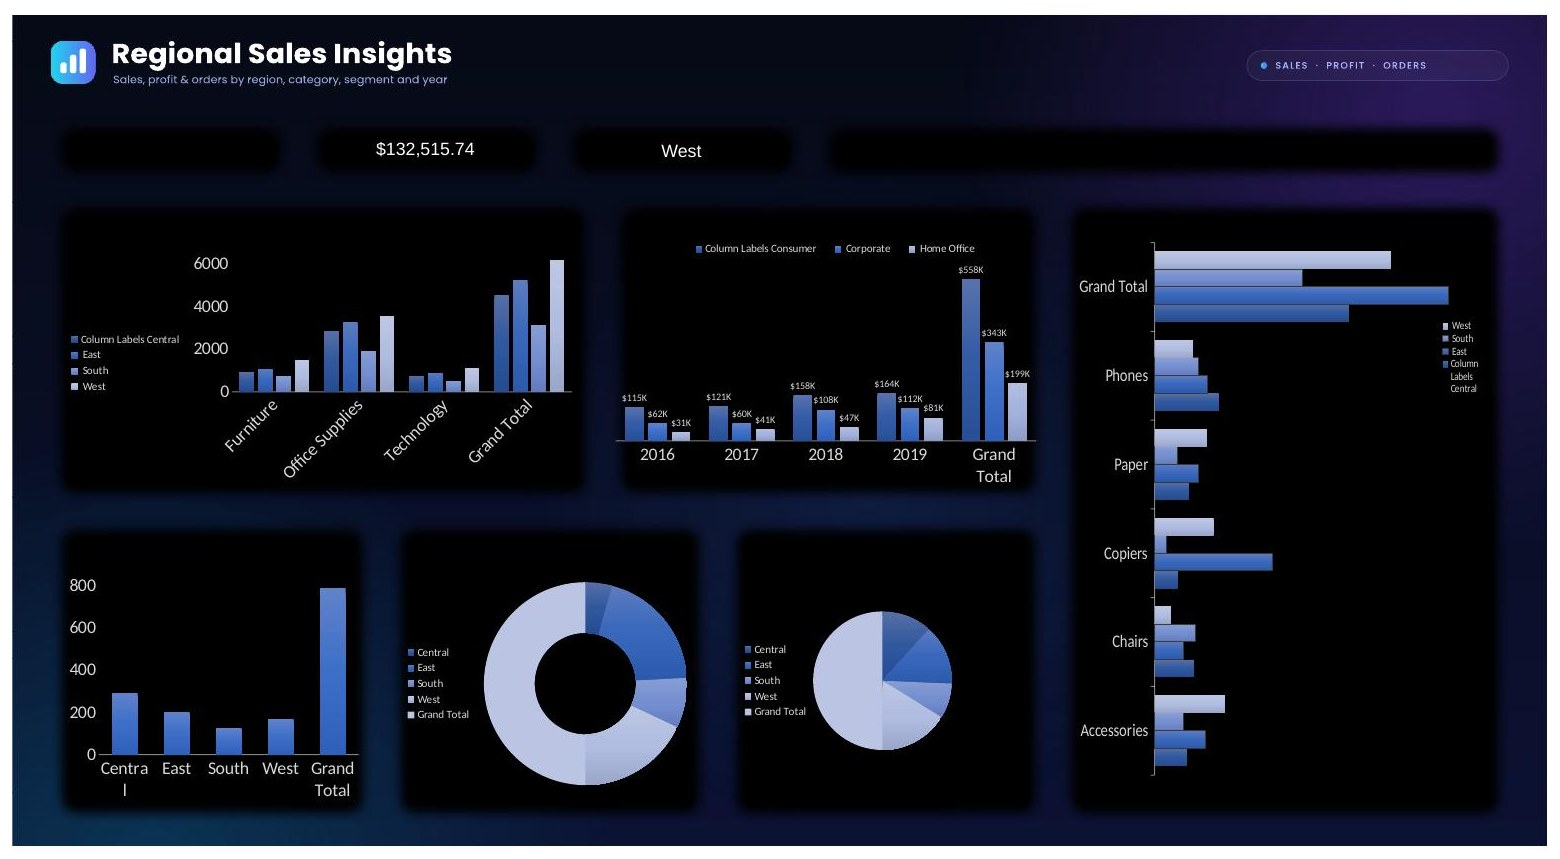
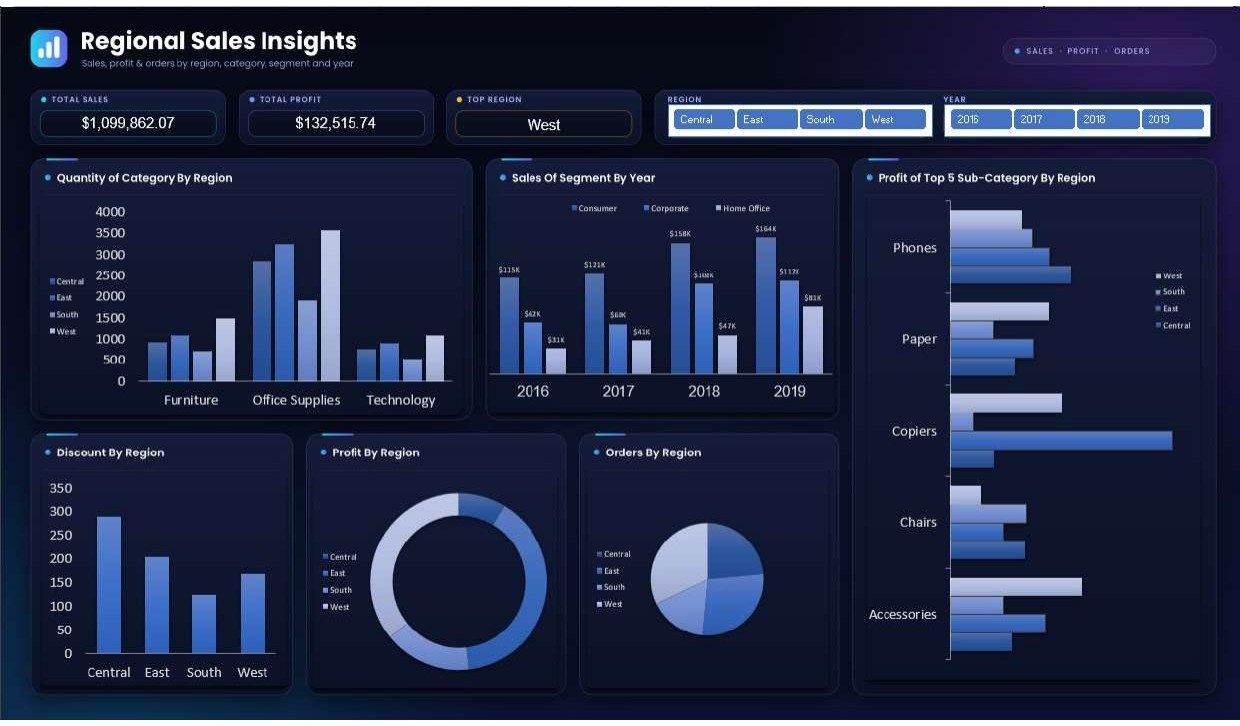
Add files via upload

diff --git a/index.html b/index.html
@@ -140,6 +140,7 @@ html.cc,html.cc *{cursor:none!important}
 .cur-ring.hov{width:60px;height:60px;background:rgba(95,240,196,.12);border-color:var(--a)}
 .cur-dot{width:6px;height:6px;background:var(--a)}
 .dlr{margin-top:24px}
+.gal{display:grid;grid-template-columns:1fr 1fr;gap:12px;margin-top:24px}.gal img{width:100%;display:block;border-radius:12px;border:1px solid var(--line)}@media(max-width:520px){.gal{grid-template-columns:1fr}}
 </style>
 </head>
 <body>
@@ -272,7 +273,8 @@ document.querySelectorAll('.filters button').forEach(b=>b.onclick=()=>{
  const f=b.dataset.f;document.querySelectorAll('.proj').forEach(c=>c.style.display=(f==='all'||c.dataset.k===f)?'':'none');
 });
 const modal=$('#modal');
-function openP(i){const p=P[i],slug=IMG[i].replace('.jpg',''),files=[`assets/pdf/${slug}.pdf`];if(p.k==='xl')files.push(`assets/projects/${IMG[i]}`);$('#mc').innerHTML=`<span class="eyebrow">${LBL[p.k]}</span><h2 style="font-size:1.8rem">${p.t}</h2><p class="lead">${p.s}</p><div class="mm">${p.m.map(y=>`<div><b>${y[0]}</b><small>${y[1]}</small></div>`).join('')}</div><ul>${p.pts.map(y=>`<li>${y}</li>`).join('')}</ul><div class="dlr"><button class="btn p" id="dlb">${p.k==='xl'?'Download PDF + dashboard image':'Download PDF report'} ↓</button></div>`;$('#dlb').onclick=()=>files.forEach((f,j)=>setTimeout(()=>{const a=document.createElement('a');a.href=f;a.download=f.split('/').pop();document.body.append(a);a.click();a.remove()},j*800));modal.classList.add('open');$('#mx').focus();}
+const GAL={"adidas": 1, "global-macro": 7, "kickstarter": 4, "superstore": 5, "mini-project": 1, "sales-analytics": 1, "sales-dashboard": 1};
+function openP(i){const p=P[i],slug=IMG[i].replace('.jpg',''),files=[`assets/pdf/${slug}.pdf`];if(p.k==='xl')files.push(`assets/projects/${IMG[i]}`);const pages=Array.from({length:GAL[slug]||1},(_,k)=>`assets/projects/${slug}-p${k+1}.jpg`);$('#mc').innerHTML=`<span class="eyebrow">${LBL[p.k]}</span><h2 style="font-size:1.8rem">${p.t}</h2><p class="lead">${p.s}</p><div class="mm">${p.m.map(y=>`<div><b>${y[0]}</b><small>${y[1]}</small></div>`).join('')}</div><ul>${p.pts.map(y=>`<li>${y}</li>`).join('')}</ul><div class="dlr"><button class="btn p" id="dlb">${p.k==='xl'?'Download PDF + dashboard image':'Download PDF report'} ↓</button></div><div class="gal">${pages.map((f,k)=>`<a href="${f}" target="_blank" rel="noopener"><img src="${f}" alt="${p.t} dashboard page ${k+1}" loading="lazy" onerror="this.parentNode.remove()"></a>`).join('')}</div>`;$('#dlb').onclick=()=>files.forEach((f,j)=>setTimeout(()=>{const a=document.createElement('a');a.href=f;a.download=f.split('/').pop();document.body.append(a);a.click();a.remove()},j*800));modal.classList.add('open');$('#mx').focus();}
 document.getElementById('grid').onclick=e=>{const c=e.target.closest('.proj');if(c)openP(+c.dataset.i)};
 const close=()=>modal.classList.remove('open');
 $('#mx').onclick=close;modal.onclick=e=>{if(e.target===modal)close()};
